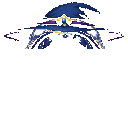
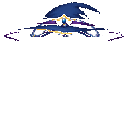
Keep broad helms off the face.
Broad helms take only the donor's crown above the brow, so the mage no longer wears healer hood flaps like loose hair; the rogue cowl keeps the whole hood.

diff --git a/tool/author_style_masters.py b/tool/author_style_masters.py
@@ -90,16 +90,29 @@ def repaint(donor: Image.Image, palette_from: Image.Image) -> Image.Image:
 def donor_band(donor: str, slot: str) -> Image.Image:
     piece = load(donor, f"{slot}_t0")
     fx, fy, half, chin, x0, y0, x1, y1 = body_landmarks(donor)
+    if slot == "helm":
+        # Crown only: side flaps would hang beside the face like loose hair.
+        return keep_rows(piece, 0, fy - half * 0.9)
     if slot == "chest" and donor == "warrior":
         return keep_rows(piece, chin - 4, chin + (y1 - chin) * 0.28)
     return piece
+
+
+# The rogue cowl already frames the face and hides a crown, so rogue takes
+# the whole healer hood; everyone else takes only the crown.
+FULL_HOOD = {"rogue"}
 
 
 def broad(family: str, slot: str) -> Image.Image:
     first, second = BROAD_DONOR[slot]
     donor = second if family == first else first
     own = load(family, f"{slot}_t0")
-    moved = register_to_body(donor_band(donor, slot), donor, family, slot)
+    band = (
+        load(donor, "helm_t0")
+        if slot == "helm" and family in FULL_HOOD
+        else donor_band(donor, slot)
+    )
+    moved = register_to_body(band, donor, family, slot)
     under = repaint(drop_small_islands(moved, min_size=24), own)
     return Image.alpha_composite(under, own)
 
